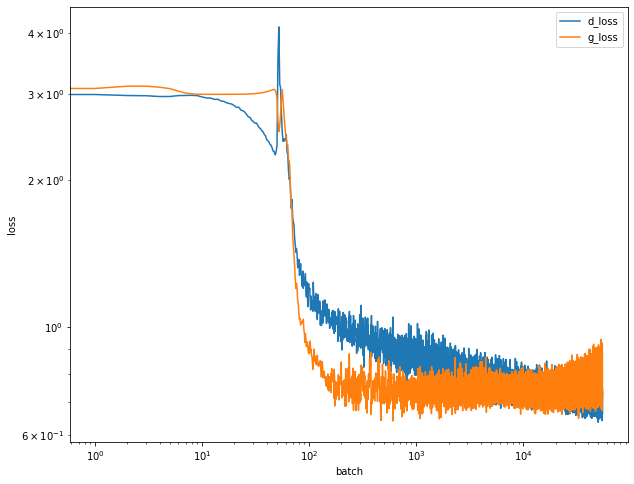
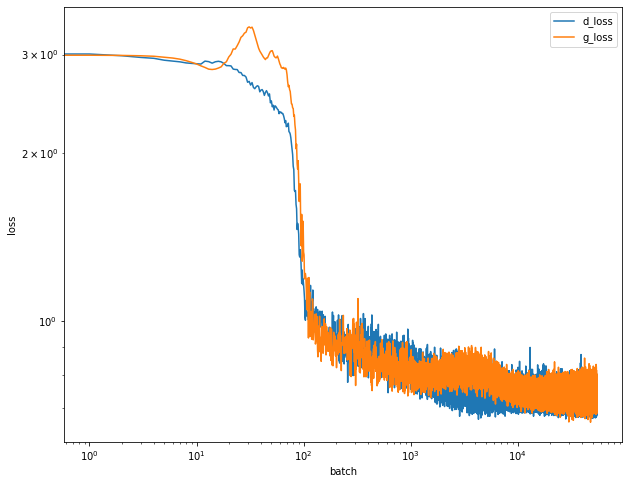
Added penalty to discriminator training and noise to input images

diff --git a/mnist-gan.py b/mnist-gan.py
@@ -8,7 +8,10 @@
 
 import numpy as np
 from tensorflow.keras.models import Sequential, clone_model, Model
-from tensorflow.keras.layers import InputLayer, Conv2D, LeakyReLU, Dropout, Flatten, Dense, Reshape, Conv2DTranspose, Input, concatenate, BatchNormalization
+from tensorflow.keras.layers import InputLayer, Conv2D, LeakyReLU, Dropout
+from tensorflow.keras.layers import Flatten, Dense, Reshape, Conv2DTranspose
+from tensorflow.keras.layers import Input, concatenate, BatchNormalization
+from tensorflow.keras.layers import GaussianNoise
 from tensorflow.keras.optimizers import Adam
 from tensorflow.keras.initializers import RandomNormal
 from tensorflow.keras.utils import plot_model
@@ -35,8 +38,11 @@ def build_descriminator(IMG_SHP, CAT_SHP):
     ##### INPUT IMAGE
     input = Input(IMG_SHP)
 
+    ##### ADD NOISE
+    net = GaussianNoise(0.1)(input)
+
     ##### CONV2D LAYER
-    net = Conv2D(64, (4, 4), strides=(2, 2), padding='same')(input)
+    net = Conv2D(64, (4, 4), strides=(2, 2), padding='same')(net)
     net = LeakyReLU()(net)
     net = Dropout(0.4)(net)
 
@@ -151,7 +157,7 @@ for epoch in range(EPOCHS):
     print(f'Epoch: {epoch+1}')
 
     ##### INIT GENERATOR
-    real_gen = generator.image_generator('mnist', BATCH_SIZE, CAT_SHP)
+    real_gen = generator.image_generator(DATASET, BATCH_SIZE, CAT_SHP)
 
     ##### GET NUMBER OF BATCHES
     BATCHES = next(real_gen)
@@ -187,7 +193,7 @@ for epoch in range(EPOCHS):
         ##### SET TARGET TO FAKE
         y_fake_oh = np.zeros((BATCH_SIZE, CAT_SHP), dtype=int)
         y_fake_oh[np.arange(BATCH_SIZE), idx] = 1
-        z_fake = np.ones((BATCH_SIZE, 1), dtype=int)
+        z_fake = 0.9*np.ones((BATCH_SIZE, 1), dtype=int)
 
         ############################################################################
         # TRAIN DISCRIMINATOR

diff --git a/generator.py b/generator.py
@@ -89,7 +89,7 @@ def image_generator(DATASET='mnist', BATCH_SIZE=128, CAT_SHP=10):
         y_real = y[:BATCH_SIZE]
         y_real_oh = np.zeros((BATCH_SIZE, CAT_SHP), dtype=int)
         y_real_oh[np.arange(BATCH_SIZE), y_real] = 1
-        z_real = np.zeros((BATCH_SIZE, 1), dtype=int)
+        z_real = np.zeros((BATCH_SIZE, 1), dtype=int)+0.1
 
         ##### REMOVE PROCESSED BATCH
         X = np.delete(X, range(BATCH_SIZE), axis=0)

diff --git a/README.md b/README.md
@@ -125,6 +125,13 @@ generated data after 5/30/50/100 epochs:
 ![50 epochs](img/mnist-50.png "50 epochs of training")
 ![100 epochs](img/mnist-100.png "100 epochs of training")
 
+variance at 5/30/50/100 epochs:
+
+![5 epochs](img/mnist-var-5.png "5 epochs of training")
+![30 epochs](img/mnist-var-30.png "30 epochs of training")
+![50 epochs](img/mnist-var-50.png "50 epochs of training")
+![100 epochs](img/mnist-var-100.png "100 epochs of training")
+
 ## Fashion-MNIST
 
 Zalando-Research provides a dataset that is highly similar in structure to the MNIST-Digit dataset. Instead of 10 classes containg digits, the F-MNIST dataset contains classes of clothing (e.g. boots, shirts, pants, etc.).
@@ -143,6 +150,14 @@ generated data after 5/30/50/100 epochs:
 ![30 epochs](img/fmnist-30.png "30 epochs of training")
 ![50 epochs](img/fmnist-50.png "50 epochs of training")
 ![100 Epochs](img/fmnist-100.png "100 epochs of training")
+
+variance at 5/30/50/100 epochs:
+
+![5 Epochs](img/fmnist-var-5.png "5 epochs of training")
+![30 epochs](img/fmnist-var-30.png "30 epochs of training")
+![50 epochs](img/fmnist-var-50.png "50 epochs of training")
+![100 Epochs](img/fmnist-var-100.png "100 epochs of training")
+
 
 ## Extended-MNIST
 
